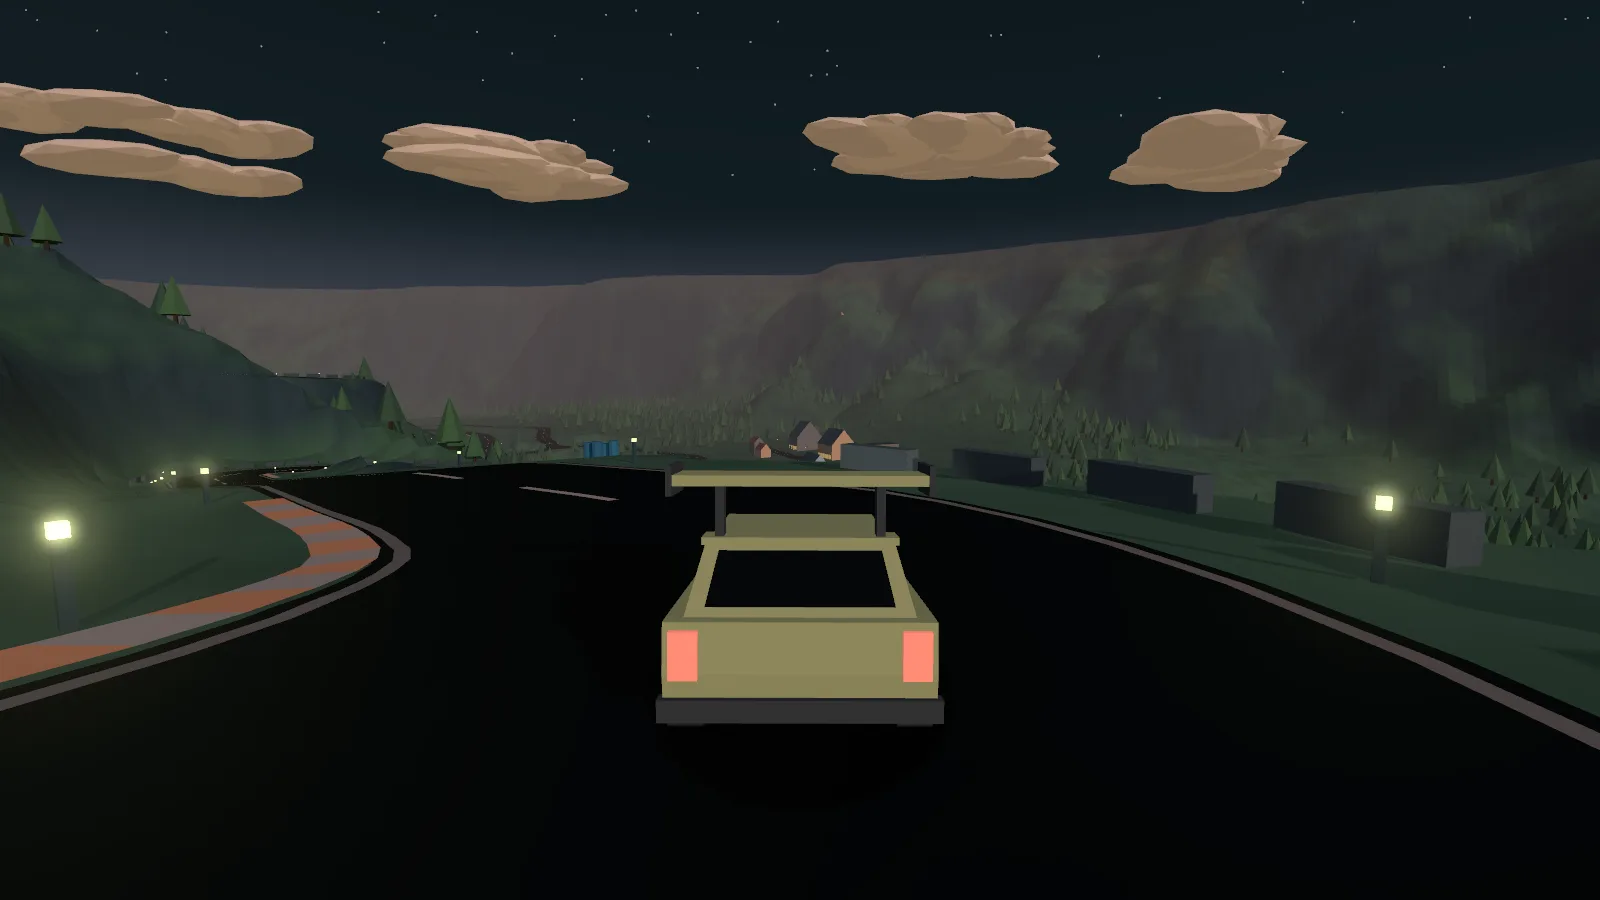
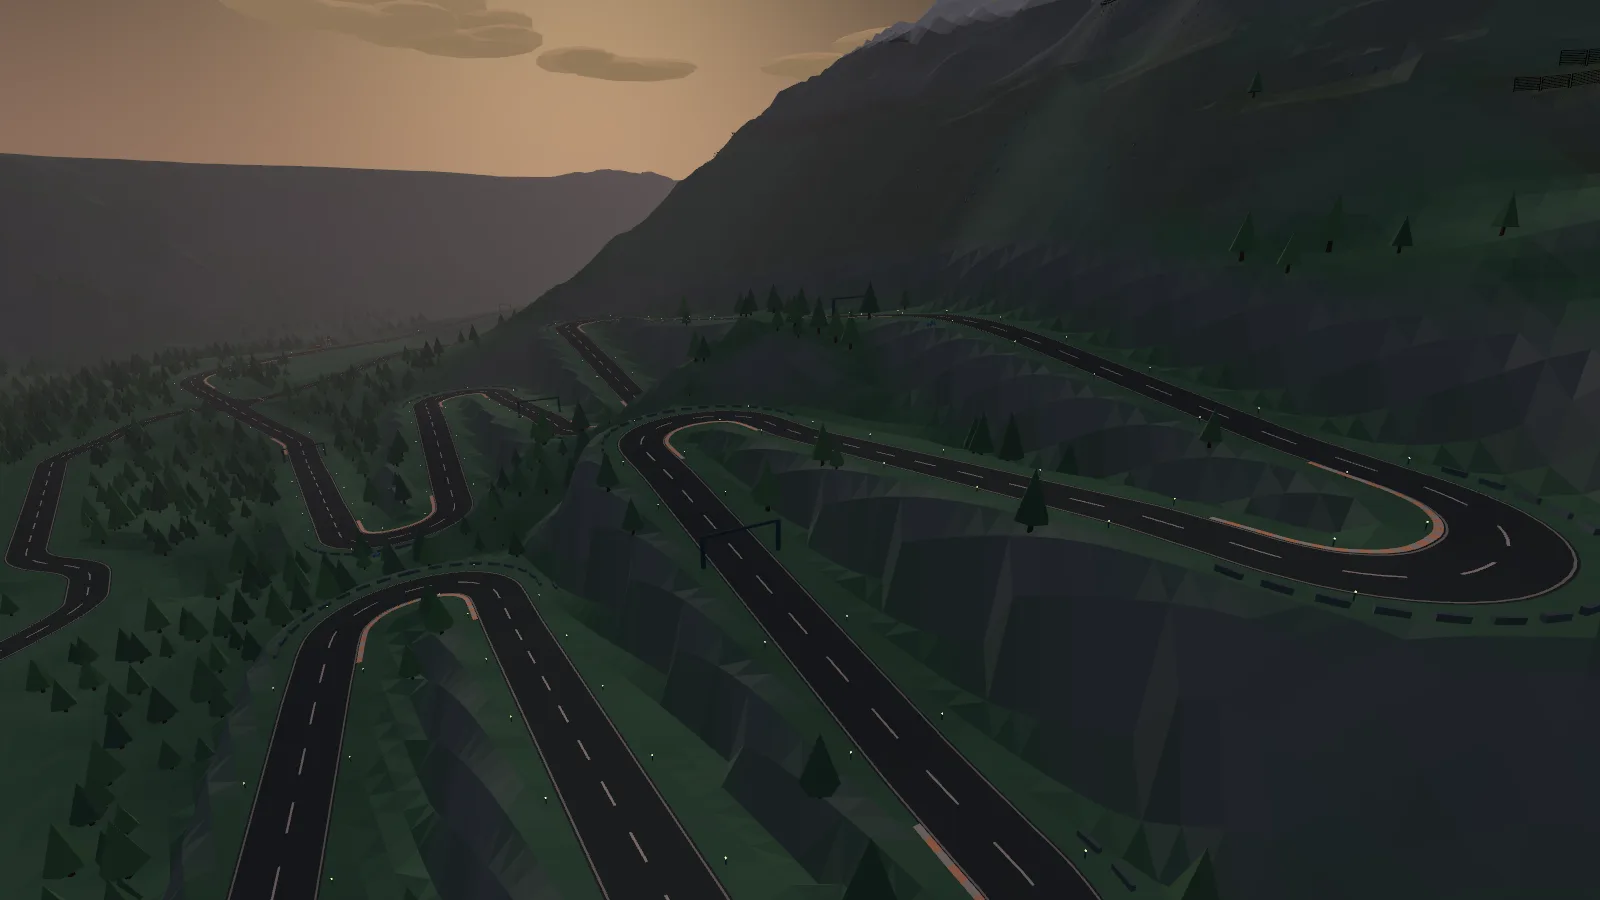
fix: menu world pictures show what each world is, none with a car
- Mainland: a market square with its clock tower at sunset
- Island coast bend, Dune sea pan road, Alpine hairpins, Frozen lakes ice, Sky Track deck over the clouds, Velodrome bowl
- Big dunes: the crest's peak sits inside the menu's square crop
- menu-shots: fixed cameras for every kind, subject in the centre square

diff --git a/scripts/menu-shots.ts b/scripts/menu-shots.ts
@@ -22,18 +22,28 @@ interface Spot {
 }
 
 // A kind missing here gets no pictures from a bare run; name it on the command line to shoot it at its spawn.
+// The menu crops each picture to its centre square at thumbnail size, so the subject sits in the middle 56% of the
+// width. No picture shows the car: `at` only parks it out of frame, or streams a big world in round the camera.
 const SPOTS: Partial<Record<WorldKind, Spot>> = {
-  island: {},
-  sky: {},
-  desert: {},
-  mainland: {},
-  alpine: { at: 1895 },
-  tundra: {},
+  // The coast road's last bend before the sea, into the sun.
+  island: { camera: { from: [-797, 37, 144], to: [-860, 10, 260] } },
+  // Over the cloud floor beside a banked sweep, the deck running off toward the sun.
+  sky: { at: 300, camera: { from: [-690, 270, -215], to: [-655, 258, -160] } },
+  // Across the road and the hardpack pan to the turbines on the far rise.
+  desert: { at: 100, camera: { from: [-510, 29, 119], to: [-570, 20, 245] } },
+  // Burrwar's market square from over its main street: stalls, the clock tower, lit shop fronts, the sun behind.
+  mainland: { at: 6770, camera: { from: [-97, 46, 1768.5], to: [-126, 44.5, 1790] } },
+  // From the air across the valley: the hairpins stacked up the flank under the snow line.
+  alpine: { at: 600, camera: { from: [500, 122, -80], to: [380, 62, 60] } },
+  // Above the shore of the western lake, the ice lying dark in the snowfield.
+  tundra: { camera: { from: [-685, 36, 20], to: [-745, 8, 150] } },
   volcano: { camera: { from: [250, 300, 60], to: [-10, 180, -10] } },
-  // On the brink of the 80 m ridge upwind of the spawn, along it and into the sun: the lit windward side, the slip face in shade.
-  dunes: { camera: { from: [260, 100.6, 349], to: [-160, 98, 573] } },
+  // On the brink of the 90 m ridge east of the spawn, along it as it climbs: the lit windward side, the slip face in
+  // shade, the peak inside the menu's square crop and the sun's glow at the left.
+  dunes: { camera: { from: [905, 95.5, 300], to: [529, 97, 437] } },
   icecanyon: { camera: { from: [560, 78, 140], to: [410, 46, 236] } },
-  velodrome: {},
+  // Low on the inside of the steepest bowl, up its wall to the floodlights.
+  velodrome: { at: 100, camera: { from: [481.2, 253.1, 142.8], to: [468.5, 252.4, 101.7] } },
 };
 
 const args = process.argv.slice(2);
